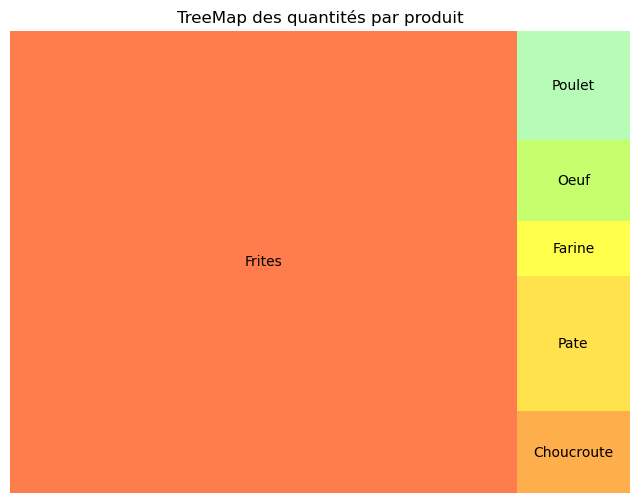
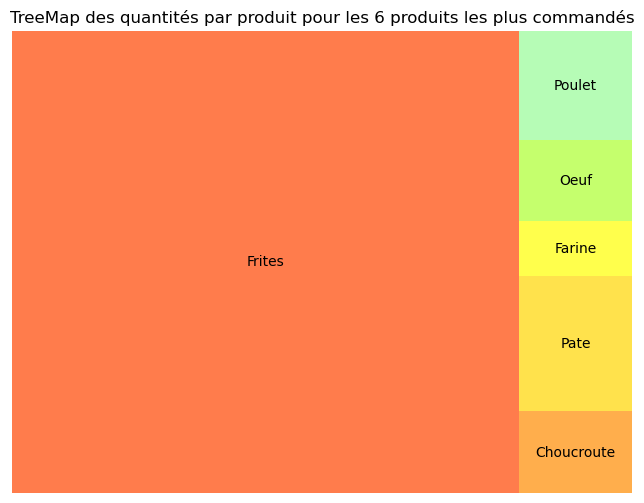
Treemap : top10 product + titre adapté si moins de 10 produits

diff --git a/Projet_Python/Projet_Python/methode_JSON/methodes_Statistiques.py b/Projet_Python/Projet_Python/methode_JSON/methodes_Statistiques.py
@@ -46,6 +46,8 @@ def ConvertToStatisticsUse():
             #Alors on l'ajoute au dico final
             elif(unProduit != "id" and unProduit != "Date" and unProduit != "CP" and uneCommande[str(unProduit)] != "0"):
                 commandeJson[unProduit] = int(uneCommande[unProduit])
+    #On trie le dictionnaire par ses valeurs d'une facon decroissante
+    sorted(commandeJson.items(), key=lambda x: x[1], reverse=True) #reverse=True : Trie dansl l'ordre decroissant 
     print("CommandesJSON",commandeJson)
 
 ### Méthode faisant l'Histogramme de la quantité de commande de chaque produit commandé depuis le début du site ###
@@ -89,15 +91,18 @@ def PieChart_Product():
 ### Méthode faisant le TreeMap de tous les produits commandés (suivant leur quantité) depuis le début du site ###
 #Site Web : https://jingwen-z.github.io/data-viz-with-matplotlib-series5-treemap/
 def TreeMap_Product():
-    if(os.path.isfile('assets/Image/TreeMap_Quantite-totale-produit.png')):
+    if(os.path.isfile('assets/Image/TreeMap_Quantite-totale-produit.png')): #Si le fichier existe
         os.remove('assets/Image/TreeMap_Quantite-totale-produit.png')#Supprimer l'image actuelle
+    #Slicing d'un dictionnaire : ici on garde le top 10 des produits (car le dictionnaire est déjà trié par ordre décroissant suivant ses valeurs)
+    topTen = dict(list(commandeJson.items())[0:10]) #10 premiers elements du dictionnaire
+    print("TOP 10 :\n", topTen)
     colors = ['orangered', 'darkorange', 'gold','yellow','greenyellow','palegreen', 'turquoise','paleturquoise','lavender','pink']
     plt.figure(figsize=(8, 6))
     plt.rc('font', size=10) 
-    squarify.plot(sizes = commandeJson.values(), label=commandeJson.keys(), alpha=0.7, color=colors)
+    squarify.plot(sizes = topTen.values(), label=topTen.keys(), alpha=0.7, color=colors)
     plt.axis('off')
     
-    plt.title('TreeMap des quantités par produit')
+    plt.title("TreeMap des quantités par produit pour les "+ str(len(topTen.keys())) +" produits les plus commandés") #Titre adapté si moins de 10 produits
     plt.savefig('assets/Image/TreeMap_Quantite-totale-produit.png', bbox_inches='tight') #rajouter : pad_inches = 0 si on ne veut aucune zone blanche
     plt.close()
     #plt.show()
